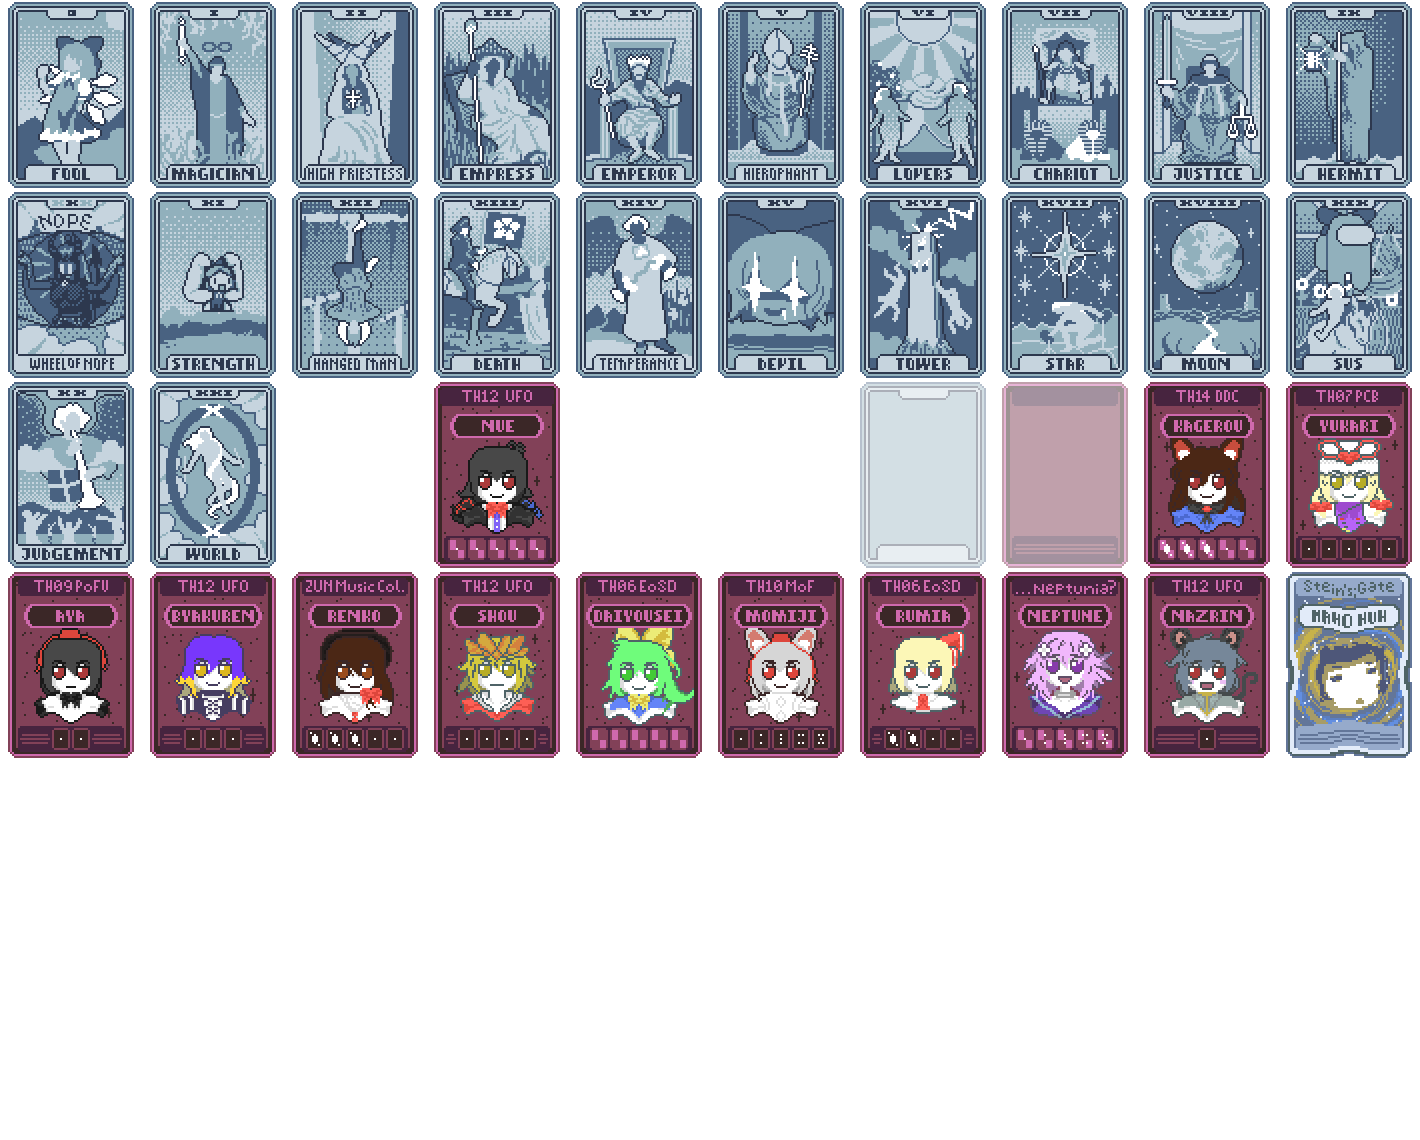
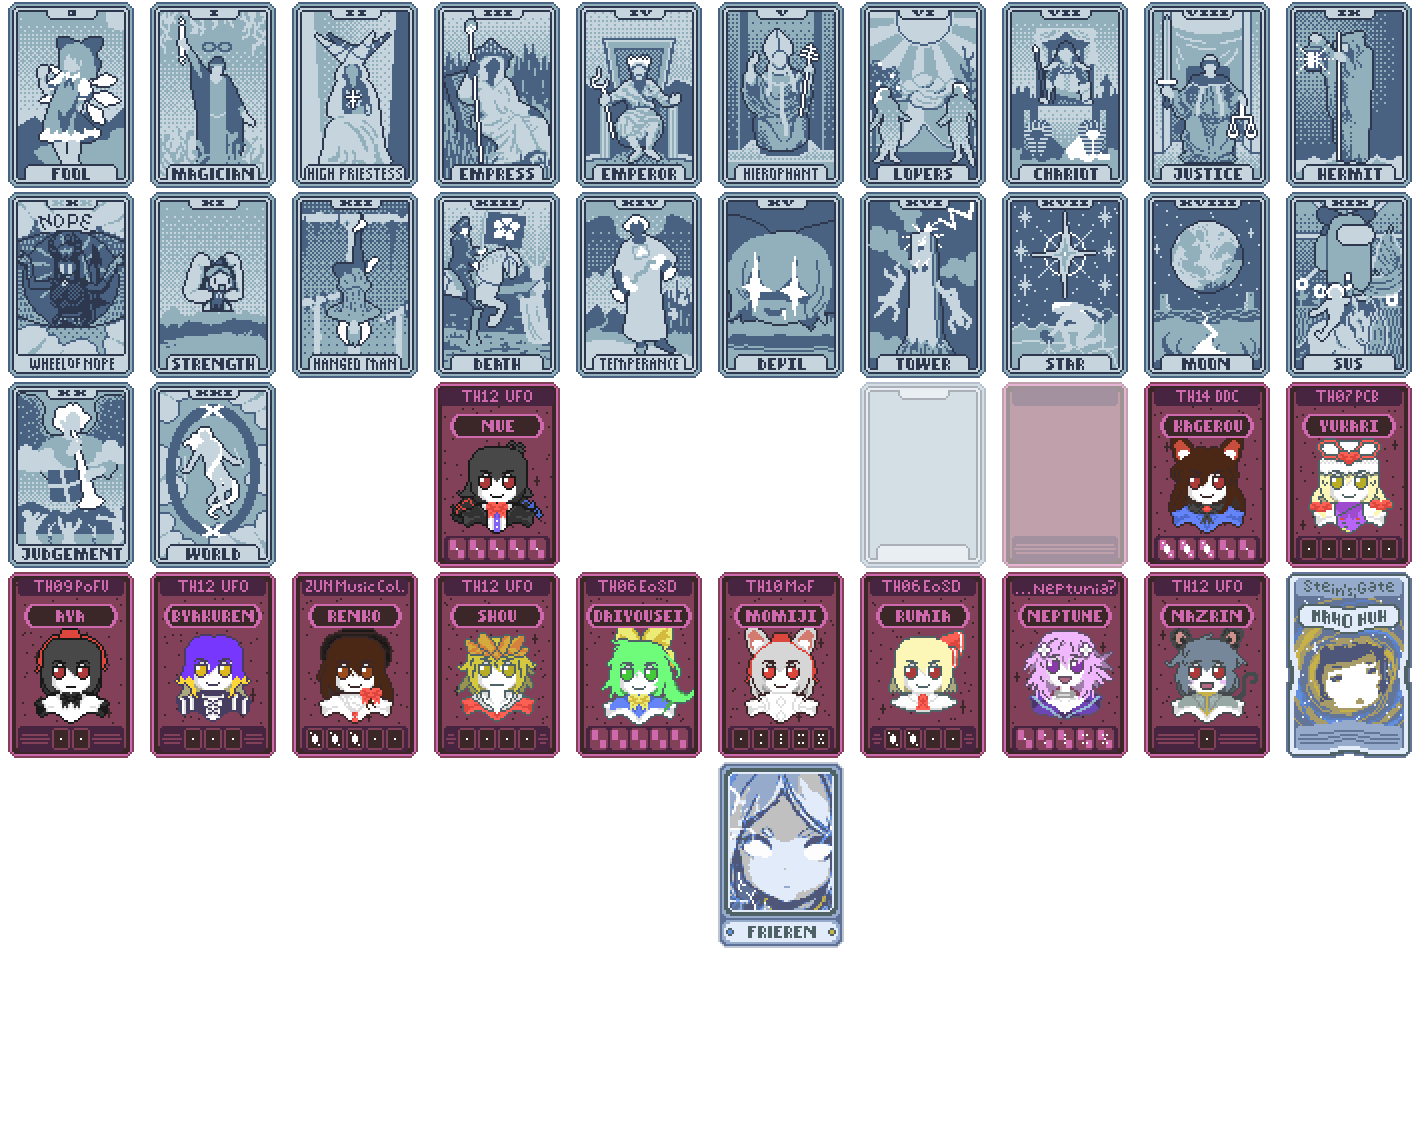
Added Wraith retexture

Changed region(s): [[0.4958, 0.6447, 0.6197, 0.8289]]

diff --git a/README.md b/README.md
@@ -20,9 +20,9 @@ DaemonTsun's art contributions are public domain - Some memes or pictures are no
   - All Seals
   - All Planet Cards
   - 11 Booster Packs
-  - 5 Tarots
+  - 5 Tarot Cards
   - 3 Decks
-  - 2 Spectrals
+  - 3 Spectral Cards
   - 1 Enhancement
   - The title screen
 
@@ -32,8 +32,8 @@ DaemonTsun's art contributions are public domain - Some memes or pictures are no
   - Most blinds
   - A significant amount of retextured Jokers
   - 5 Tarot Cards
+  - 3 Spectral Cards
   - 1 Enhancement
-  - 1 Spectral Card
 
 - Adds:
   - Various fun flavour text to numerous items
